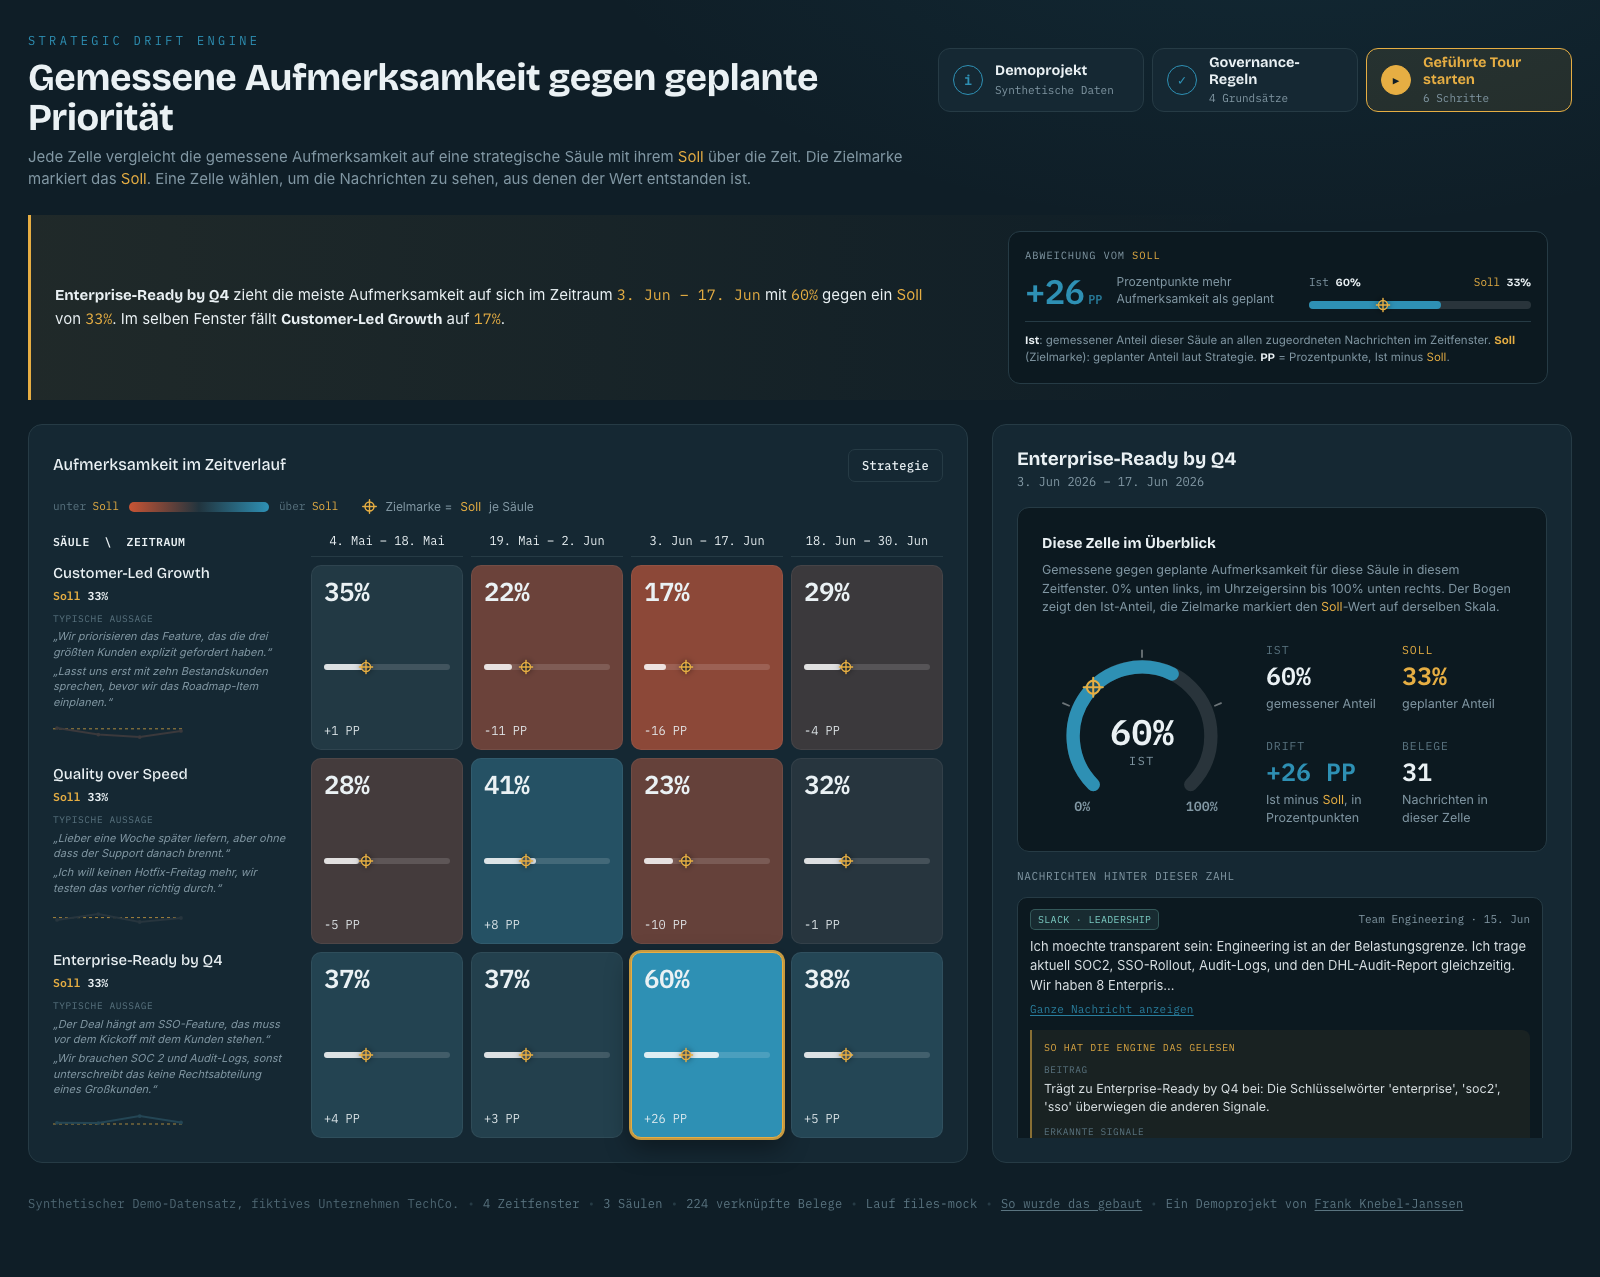
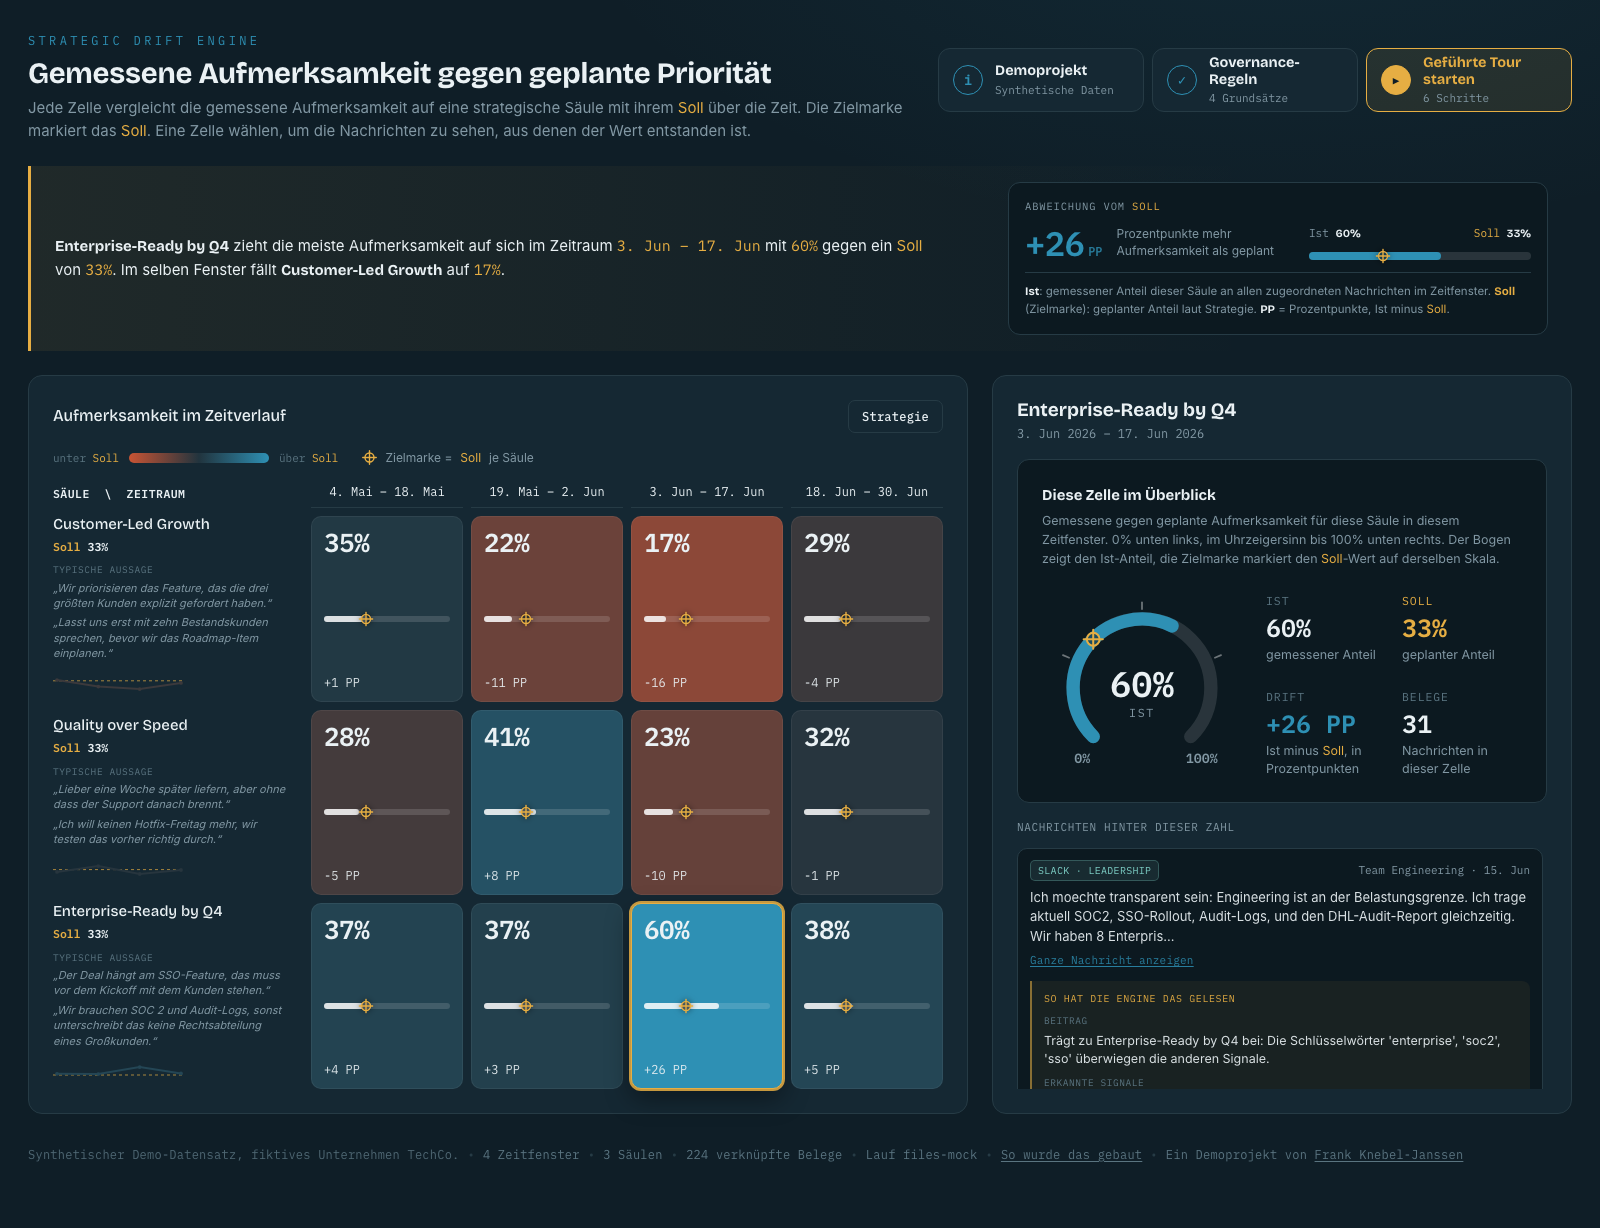
style(frontend): Haupttitel skaliert mit Fensterbreite, bleibt einzeilig

diff --git a/docs/index.html b/docs/index.html
@@ -31,7 +31,7 @@ body{
 .byline{font-size:12.5px; color:var(--faint); margin:-8px 0 16px}
 .byline a{color:var(--muted); text-decoration:none; border-bottom:1px solid rgba(130,152,164,.35)}
 .byline a:hover{color:var(--ink); border-bottom-color:var(--amber)}
-h1{font-family:var(--disp); font-weight:700; font-size:clamp(26px,3.2vw,38px);
+h1{font-family:var(--disp); font-weight:700; font-size:clamp(24px,1.85vw,32px);
   line-height:1.05; letter-spacing:-.01em; margin:0 0 var(--s1)}
 .sub{color:var(--muted); font-size:15px; max-width:110ch; margin:0}
 

diff --git a/docs/build_frontend.py b/docs/build_frontend.py
@@ -53,7 +53,7 @@ body{
 .byline{font-size:12.5px; color:var(--faint); margin:-8px 0 16px}
 .byline a{color:var(--muted); text-decoration:none; border-bottom:1px solid rgba(130,152,164,.35)}
 .byline a:hover{color:var(--ink); border-bottom-color:var(--amber)}
-h1{font-family:var(--disp); font-weight:700; font-size:clamp(26px,3.2vw,38px);
+h1{font-family:var(--disp); font-weight:700; font-size:clamp(24px,1.85vw,32px);
   line-height:1.05; letter-spacing:-.01em; margin:0 0 var(--s1)}
 .sub{color:var(--muted); font-size:15px; max-width:110ch; margin:0}
 
